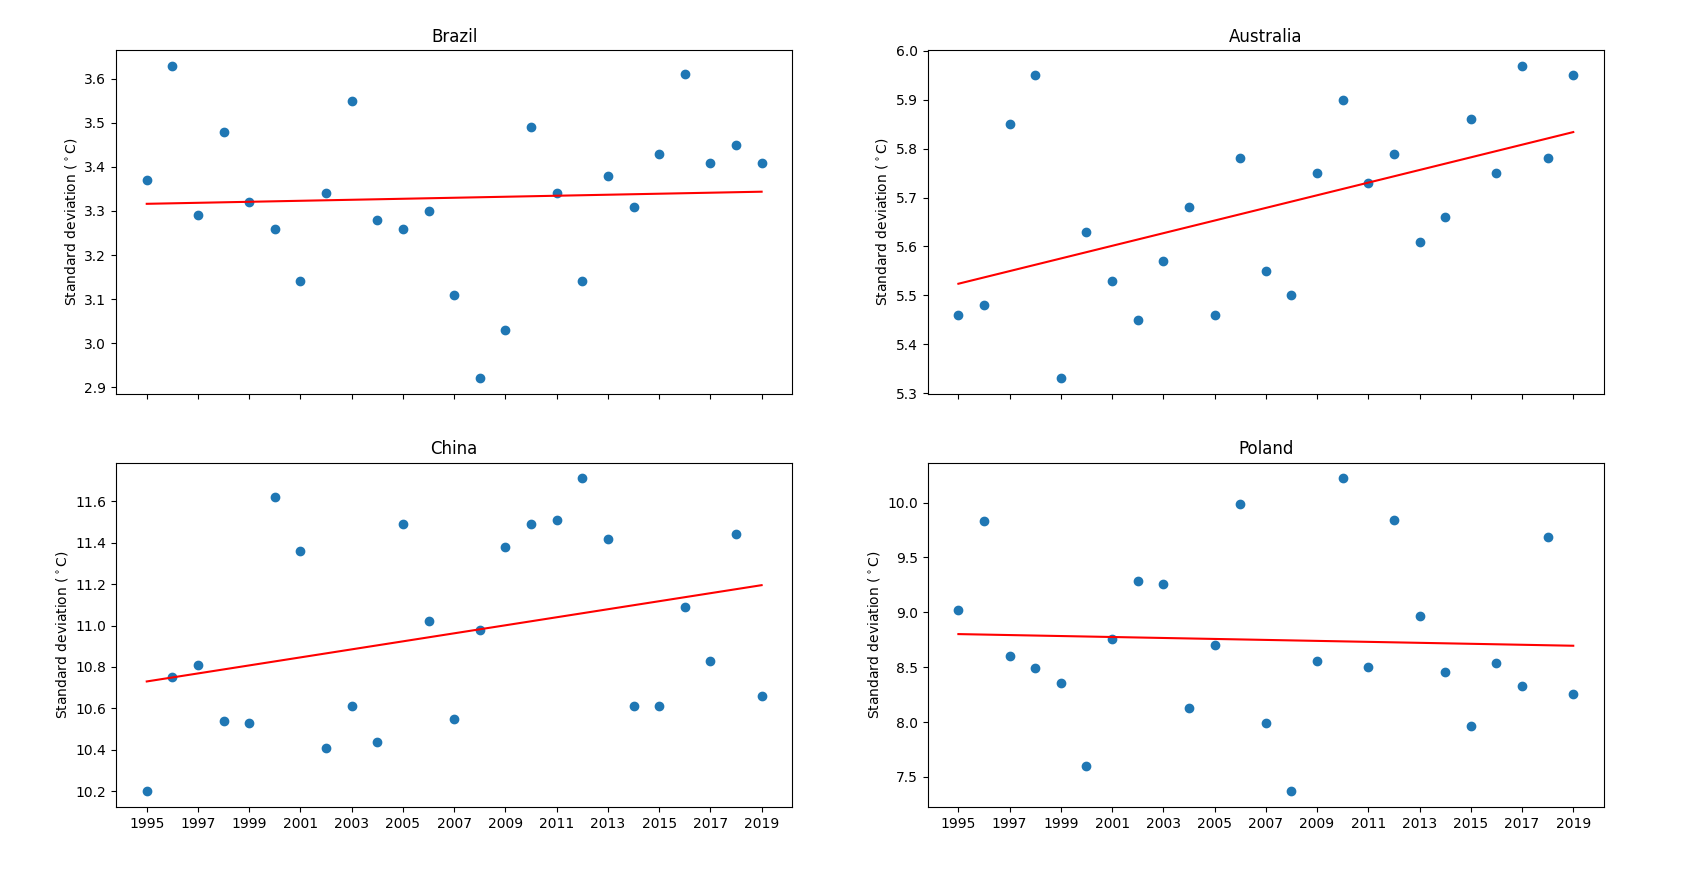
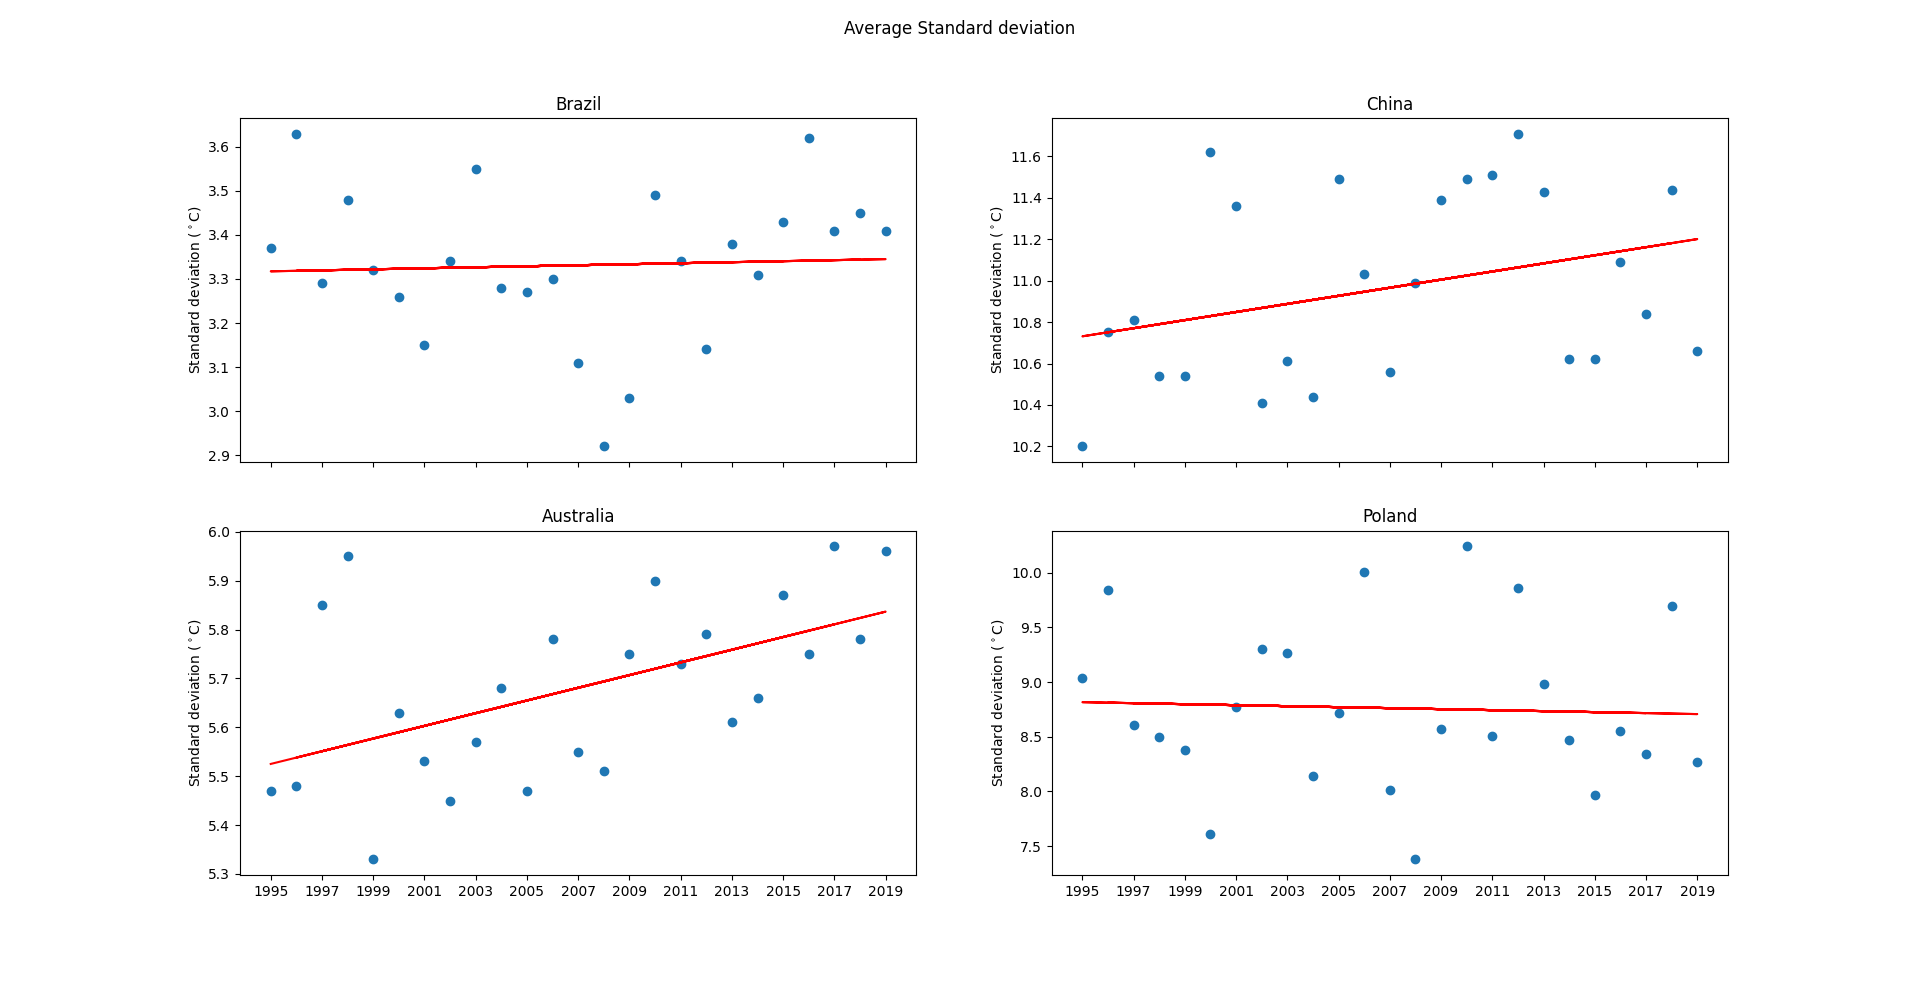
title has been added to plots

diff --git a/plots.py b/plots.py
@@ -25,6 +25,7 @@ for ax,country in zip(axs.ravel(),unique_countries):
     
 start, end = axs[0][0].get_xlim()
 axs[0][0].xaxis.set_ticks(np.arange(int(start+2), int(end), 2))
+fig.suptitle("Average Temperature")
 
 #plots of deviation
 fig1, axs1 = plt.subplots(2,2, sharex=True)
@@ -39,5 +40,6 @@ for ax,country in zip(axs1.ravel(),unique_countries):
     
 start, end = axs[0][0].get_xlim()
 axs1[0][0].xaxis.set_ticks(np.arange(int(start+2), int(end), 2))
+fig1.suptitle("Average Standard deviation")
 
 plt.show()
